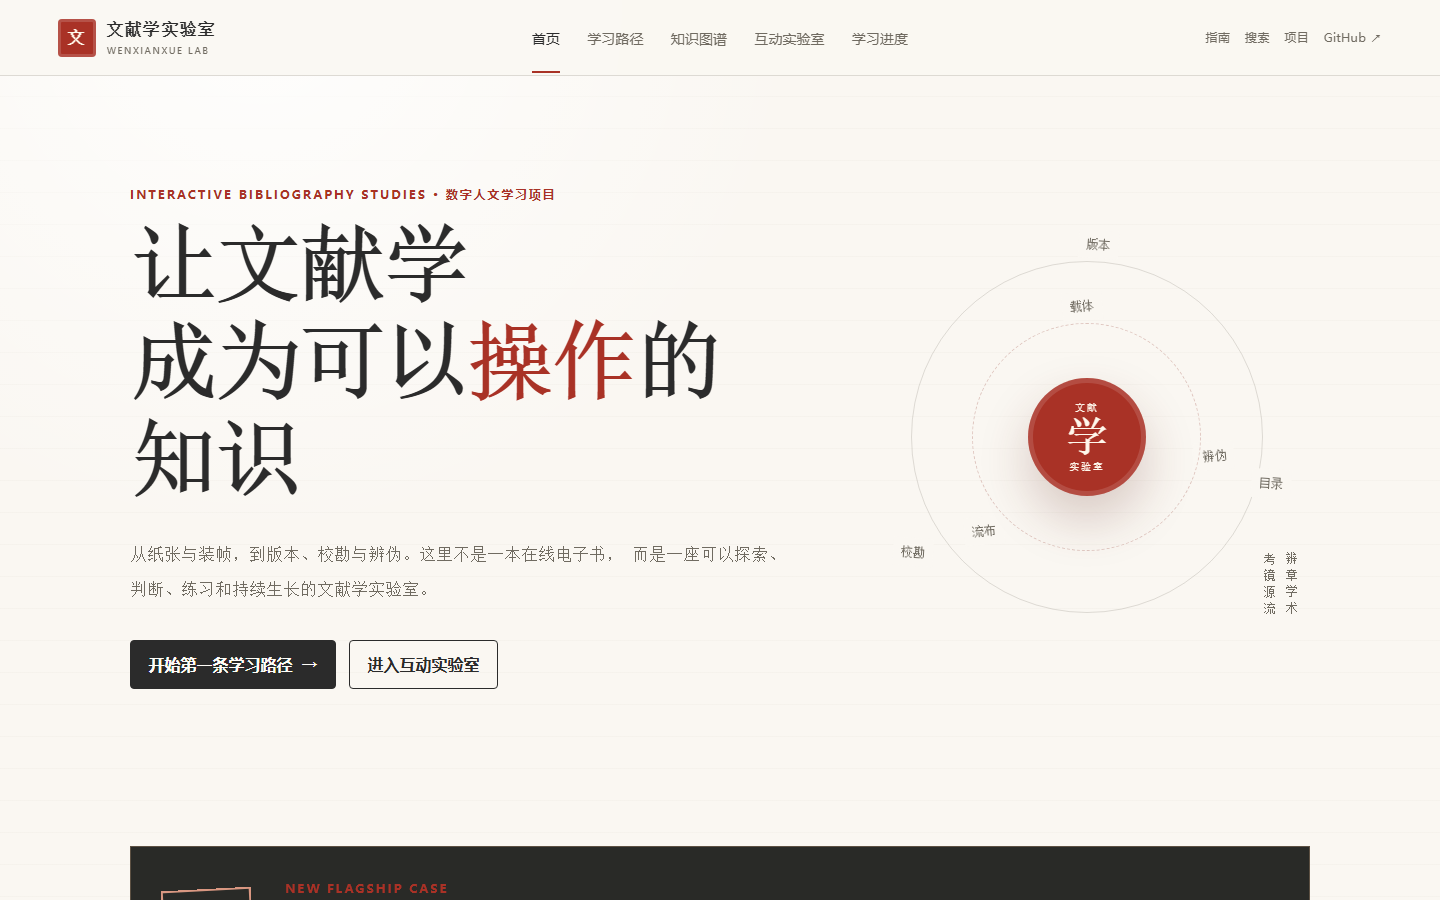
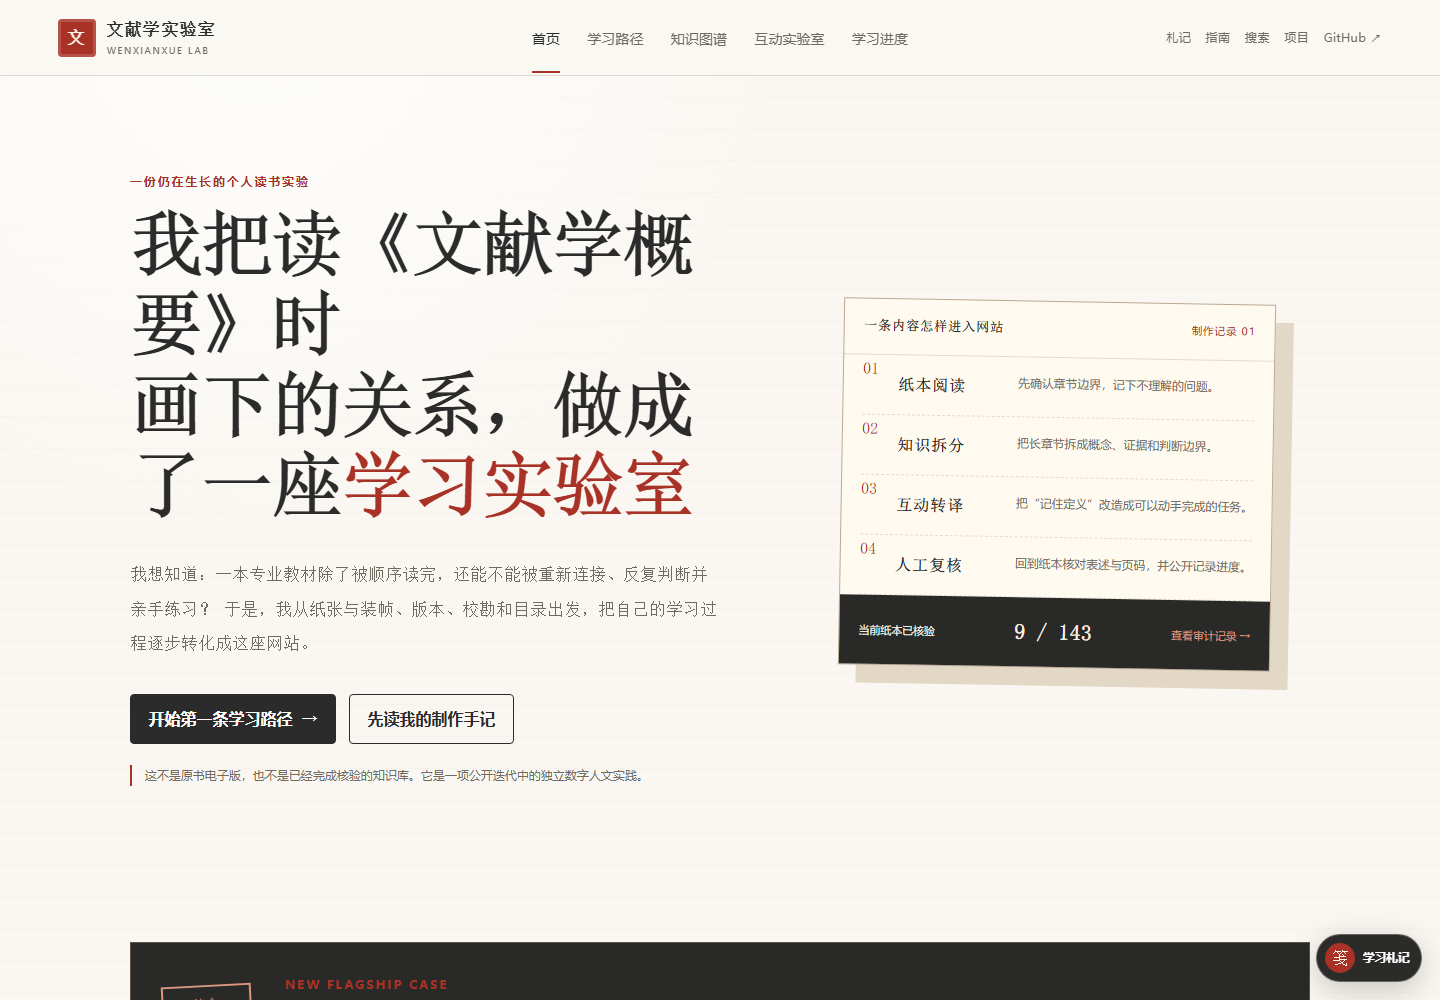
docs: refresh public showcase media

diff --git a/tests/maturity.test.js b/tests/maturity.test.js
@@ -33,7 +33,7 @@ describe("公开项目成熟度门禁", () => {
   });
 
   it("展示素材完整且不是空白占位图", () => {
-    const images = ["01-home", "02-guide", "03-coverage", "04-graph", "05-lab", "06-chapter"];
+    const images = ["01-home", "02-guide", "03-coverage", "04-graph", "05-lab", "06-chapter", "07-story", "08-version", "09-catalog"];
     images.forEach((name) => expect(statSync(resolve(root, `docs/media/${name}.png`)).size).toBeGreaterThan(20_000));
   });
 
@@ -83,5 +83,6 @@ describe("公开项目成熟度门禁", () => {
     expect(signature).toContain('chapterId === "ch01"');
     expect(signature).toContain('chapterId === "ch05"');
     expect(signature).toContain('chapterId === "ch07"');
+    expect(read("src/components/WelcomeGuide.tsx")).toContain('welcomeMode === "0"');
   });
 });

diff --git a/src/components/WelcomeGuide.tsx b/src/components/WelcomeGuide.tsx
@@ -7,7 +7,9 @@ export default function WelcomeGuide({ baseUrl }: { baseUrl: string }) {
   const closeRef = useRef<HTMLButtonElement>(null);
 
   useEffect(() => {
-    const replay = new URLSearchParams(window.location.search).get("welcome") === "1";
+    const welcomeMode = new URLSearchParams(window.location.search).get("welcome");
+    if (welcomeMode === "0") return;
+    const replay = welcomeMode === "1";
     if (replay || !window.localStorage.getItem(STORAGE_KEY)) setOpen(true);
   }, []);
   useEffect(() => {

diff --git a/docs/media/README.md b/docs/media/README.md
@@ -1,6 +1,6 @@
 # 项目展示截图
 
-本目录保存《文献学实验室》的对外展示截图，统一采用 1440×900 桌面视口。
+本目录保存《文献学实验室》的对外展示截图。常规页面采用 1440×1000 桌面视口，代表章节采用 1440×1600 长画布，以同时呈现章节导读和专属学习模块。
 
 推荐使用顺序：
 
@@ -9,8 +9,11 @@
 3. `03-coverage.png`：十四章系统覆盖。
 4. `04-graph.png`：知识图谱与数字人文特征。
 5. `05-lab.png`：互动实验室与非选择题任务。
-6. `06-chapter.png`：章节内容、学习单元和练习闭环。
+6. `06-chapter.png`：第一章阅读草图与研究问题入口。
+7. `07-story.png`：第一人称作者手记与项目缘起。
+8. `08-version.png`：第五章鉴定案卷式专属入口。
+9. `09-catalog.png`：第七章目录著录卡式专属入口。
 
-对外发布时建议首图使用 `01-home.png`，正文依次选择覆盖页、图谱、实验室和章节页；不必一次放完全部截图。
+对外发布时建议首图使用 `01-home.png`，正文从作者手记、覆盖页、图谱、实验室和三个代表章节中按需要选择；不必一次放完全部截图。
 
 截图仅展示网站原创界面与学习内容，不包含原书扫描页或大段转录。
